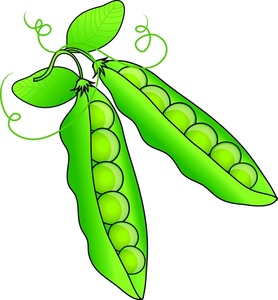
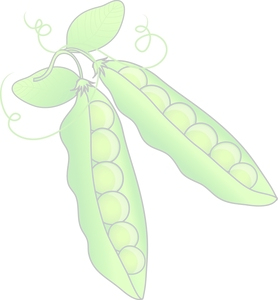
adjusted bg image and colors

diff --git a/index.html b/index.html
@@ -9,7 +9,6 @@
     <link rel="stylesheet" href="style.css">
 </head>
 <main id="main">
-    <div id="bg-image"></div>
     <figure id=" img-div">
         <img src="Gregor_Mendel.jpg" id="image" />
         <div id="img-caption" Gregor Mendel>Gregor Mendel</div>
@@ -22,7 +21,7 @@
             Republic)
             Johann Mendel
         </li>
-        <li id="Fact2">
+        <li id="Fact2" class="green-bg">
             <b>1840: </b>Attends the University of Olmutz in the Czech Republic.
         </li>
         <li id="Fact3" class="white-bg">
@@ -31,7 +30,7 @@
             Brno and
             was given a teaching position at a secondary school, where he would stay for more than a decade.
         </li>
-        <li id="Fact4">
+        <li id="Fact4" class="green-bg">
             <b>1854: </b> Mendel began research into the transmission of hereditary traits in plant hybrids, most
             notably, pea
             pods**.
@@ -44,7 +43,7 @@
             plant had two units of inheritance for any given trait. Mendel’s second set of experiments involved
             measuring the heredity patterns of two characters at a time.
         </li>
-        <li id="Fact6">
+        <li id="Fact6" class="green-bg">
             <b>1883: </b>Mendels law of segregation discovered. Mendel’s work helped lay the foundation for modern
             genetics,
             and his discoveries and conclusions have largely stood the test of time.

diff --git a/style.css b/style.css
@@ -11,6 +11,7 @@ main {
     max-width: 25%;
     max-height: 25%;
     margin: 0 auto;
+    border-radius: 20px;
 }
 
 #img-caption {
@@ -33,23 +34,20 @@ aside {
 #tribute-info {
     text-align: center;
     font-size: 30px;
+    font-family: 'Trebuchet MS', 'Lucida Sans Unicode', 'Lucida Grande', 'Lucida Sans', Arial, sans-serif;
 }
 
 aside {
     font-style: italic;
 }
 
-aside a {
-    padding: 5px;
-}
-
-a {
+#tribute-link {
     display: flex;
+    margin: 0 auto;
     justify-content: center;
-    margin: 5px auto;
-    text-align: center;
+    padding-top: 0;
 }
 
 .white-bg {
-    background-color: rgba(red, green, blue, 1);
+    background-color: rgba(255, 255, 255, .75);
 }
